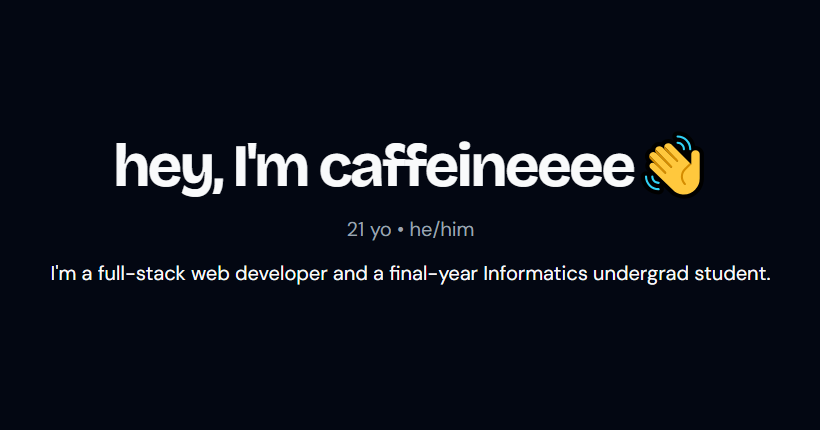
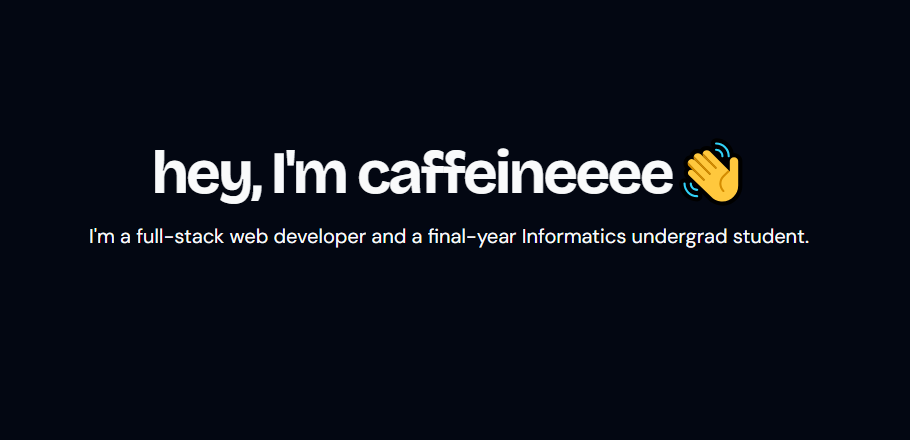
Fix layout, update og image

Changed region(s): [[0.122, 0.3023, 0.8537, 0.4837], [0.061, 0.6047, 0.9451, 0.6651], [0.0915, 0.514, 0.8841, 0.5744]]

diff --git a/src/app/guestbook/forms.tsx b/src/app/guestbook/forms.tsx
@@ -19,7 +19,7 @@ export function Form({ session }: { session: Session }) {
 
 	return (
 		<>
-			<ErrorBoundary fallback={<div>Something went wrong</div>}>
+			<ErrorBoundary fallback={<div>Something went wrong.</div>}>
 				<form
 					style={{ opacity: !pending ? 1 : 0.7 }}
 					className="flex max-w-full flex-col"

diff --git a/src/app/layout.tsx b/src/app/layout.tsx
@@ -74,7 +74,7 @@ export default async function RootLayout({ children }: RootLayoutProps) {
 				<head />
 				<body
 					className={cn(
-						"min-h-screen bg-background font-sans",
+						"min-h-screen bg-background font-sans flex flex-col",
 						dmSans.variable,
 						bricolageGrotesque.variable,
 					)}

diff --git a/src/app/global-error.tsx b/src/app/global-error.tsx
@@ -19,7 +19,7 @@ export default function GlobalError({
 	return (
 		<html lang="en">
 			<body>
-				<h2>Something went wrong!</h2>
+				<h2>Something went wrong.</h2>
 				<Button
 					onClick={() => {
 						router.refresh();
